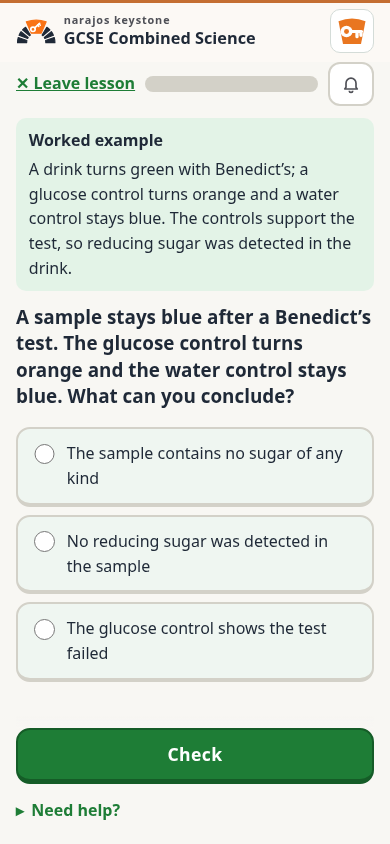
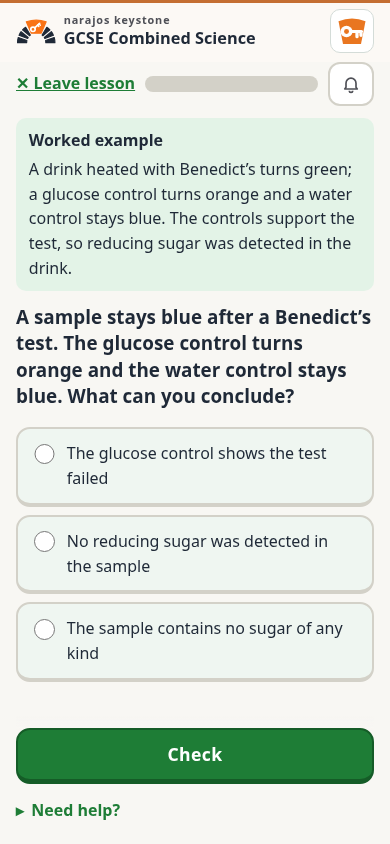
State heating in the worked food test

Changed region(s): [[0.0615, 0.1848, 0.8923, 0.2464], [0.1538, 0.5237, 0.8923, 0.5853], [0.1846, 0.7393, 0.8923, 0.8009]]

diff --git a/public/gcse/index.html b/public/gcse/index.html
@@ -6267,7 +6267,7 @@ function showQ(){
  var badge=(q.qc||(!L.slop&&L.qc===q0)?'<span class="qcb">Quick check</span> ':'')+(q.tier==="HT"?'<span class="ht" title="Higher tier content">HT</span>':'');
  var foodLesson=!L.slop&&!L.rvMode&&L.t==="b2"&&L.c.id==="foodtests";
  var foodTeaching=foodLesson&&L.i===0?'<section class="key food-method" aria-labelledby="food-teaching-title"><h2 id="food-teaching-title">Learn the method</h2><table><caption class="sr-only">Food tests and positive results</caption><thead><tr><th scope="col">Food</th><th scope="col">Reagent / method</th><th scope="col">Positive result</th></tr></thead><tbody><tr><th scope="row">Reducing sugar</th><td>Benedict’s; heat in a water bath</td><td>Blue → green, yellow, orange or brick-red</td></tr><tr><th scope="row">Starch</th><td>Iodine</td><td>Orange-brown → blue-black</td></tr><tr><th scope="row">Protein</th><td>Biuret</td><td>Blue → purple</td></tr><tr><th scope="row">Lipid</th><td>Shake with ethanol, then add water; keep away from flames</td><td>Cloudy white emulsion</td></tr></tbody></table><p>Benedict’s detects reducing sugars such as glucose. If the test works, blue means none was detected; non-reducing sugars such as sucrose could still be present.</p><p>Test a known positive and a water negative control in the same way. If the positive control fails, a negative sample is inconclusive.</p></section><h2 class="food-practice-title">Practise the method</h2>':'';
- var foodWorked=foodLesson&&q.q.indexOf("A sample stays blue after a Benedict’s test.")===0?'<section class="food-worked" aria-labelledby="food-worked-title"><h2 id="food-worked-title">Worked example</h2><p>A drink turns green with Benedict’s; a glucose control turns orange and a water control stays blue. The controls support the test, so reducing sugar was detected in the drink.</p></section>':'';
+ var foodWorked=foodLesson&&q.q.indexOf("A sample stays blue after a Benedict’s test.")===0?'<section class="food-worked" aria-labelledby="food-worked-title"><h2 id="food-worked-title">Worked example</h2><p>A drink heated with Benedict’s turns green; a glucose control turns orange and a water control stays blue. The controls support the test, so reducing sugar was detected in the drink.</p></section>':'';
  var h=lessonTop()+foodTeaching+foodWorked+'<form id="qf"'+(foodTeaching?' class="food-start"':'')+' novalidate><div class="qtop"><h1 class="qh"><span class="sr-only">'+(L.rvMode?'Looking again at question '+(RV.k+1):L.slop?'Question '+(L.n+1):'Question '+(L.first.size+1)+' of '+L.total)+'. </span>'+(retry?'Have another go ':'')+badge+'</h1>'+resBtn(q)+'</div>'+
   (q.fig&&q.t!=="tap"?figHTML(q.fig):'')+
   '<fieldset class="q"><legend>'+fmt(q.q)+(q.t==="short"?' <span class="mk">('+q.marks.length+' marks)</span>':'')+'</legend>'+(q.tip?'<p class="tipbox"><strong>How to do it:</strong> '+fmt(q.tip)+'</p>':'')+(q.eqshow?'<p class="eqn">'+q.eqshow.map(function(sd,i){return '<span class="eqside">'+(i?'→ ':'')+sd.map(fmt).join(" + ")+'</span>';}).join(" ")+'</p>':'')+body+'</fieldset>'+
